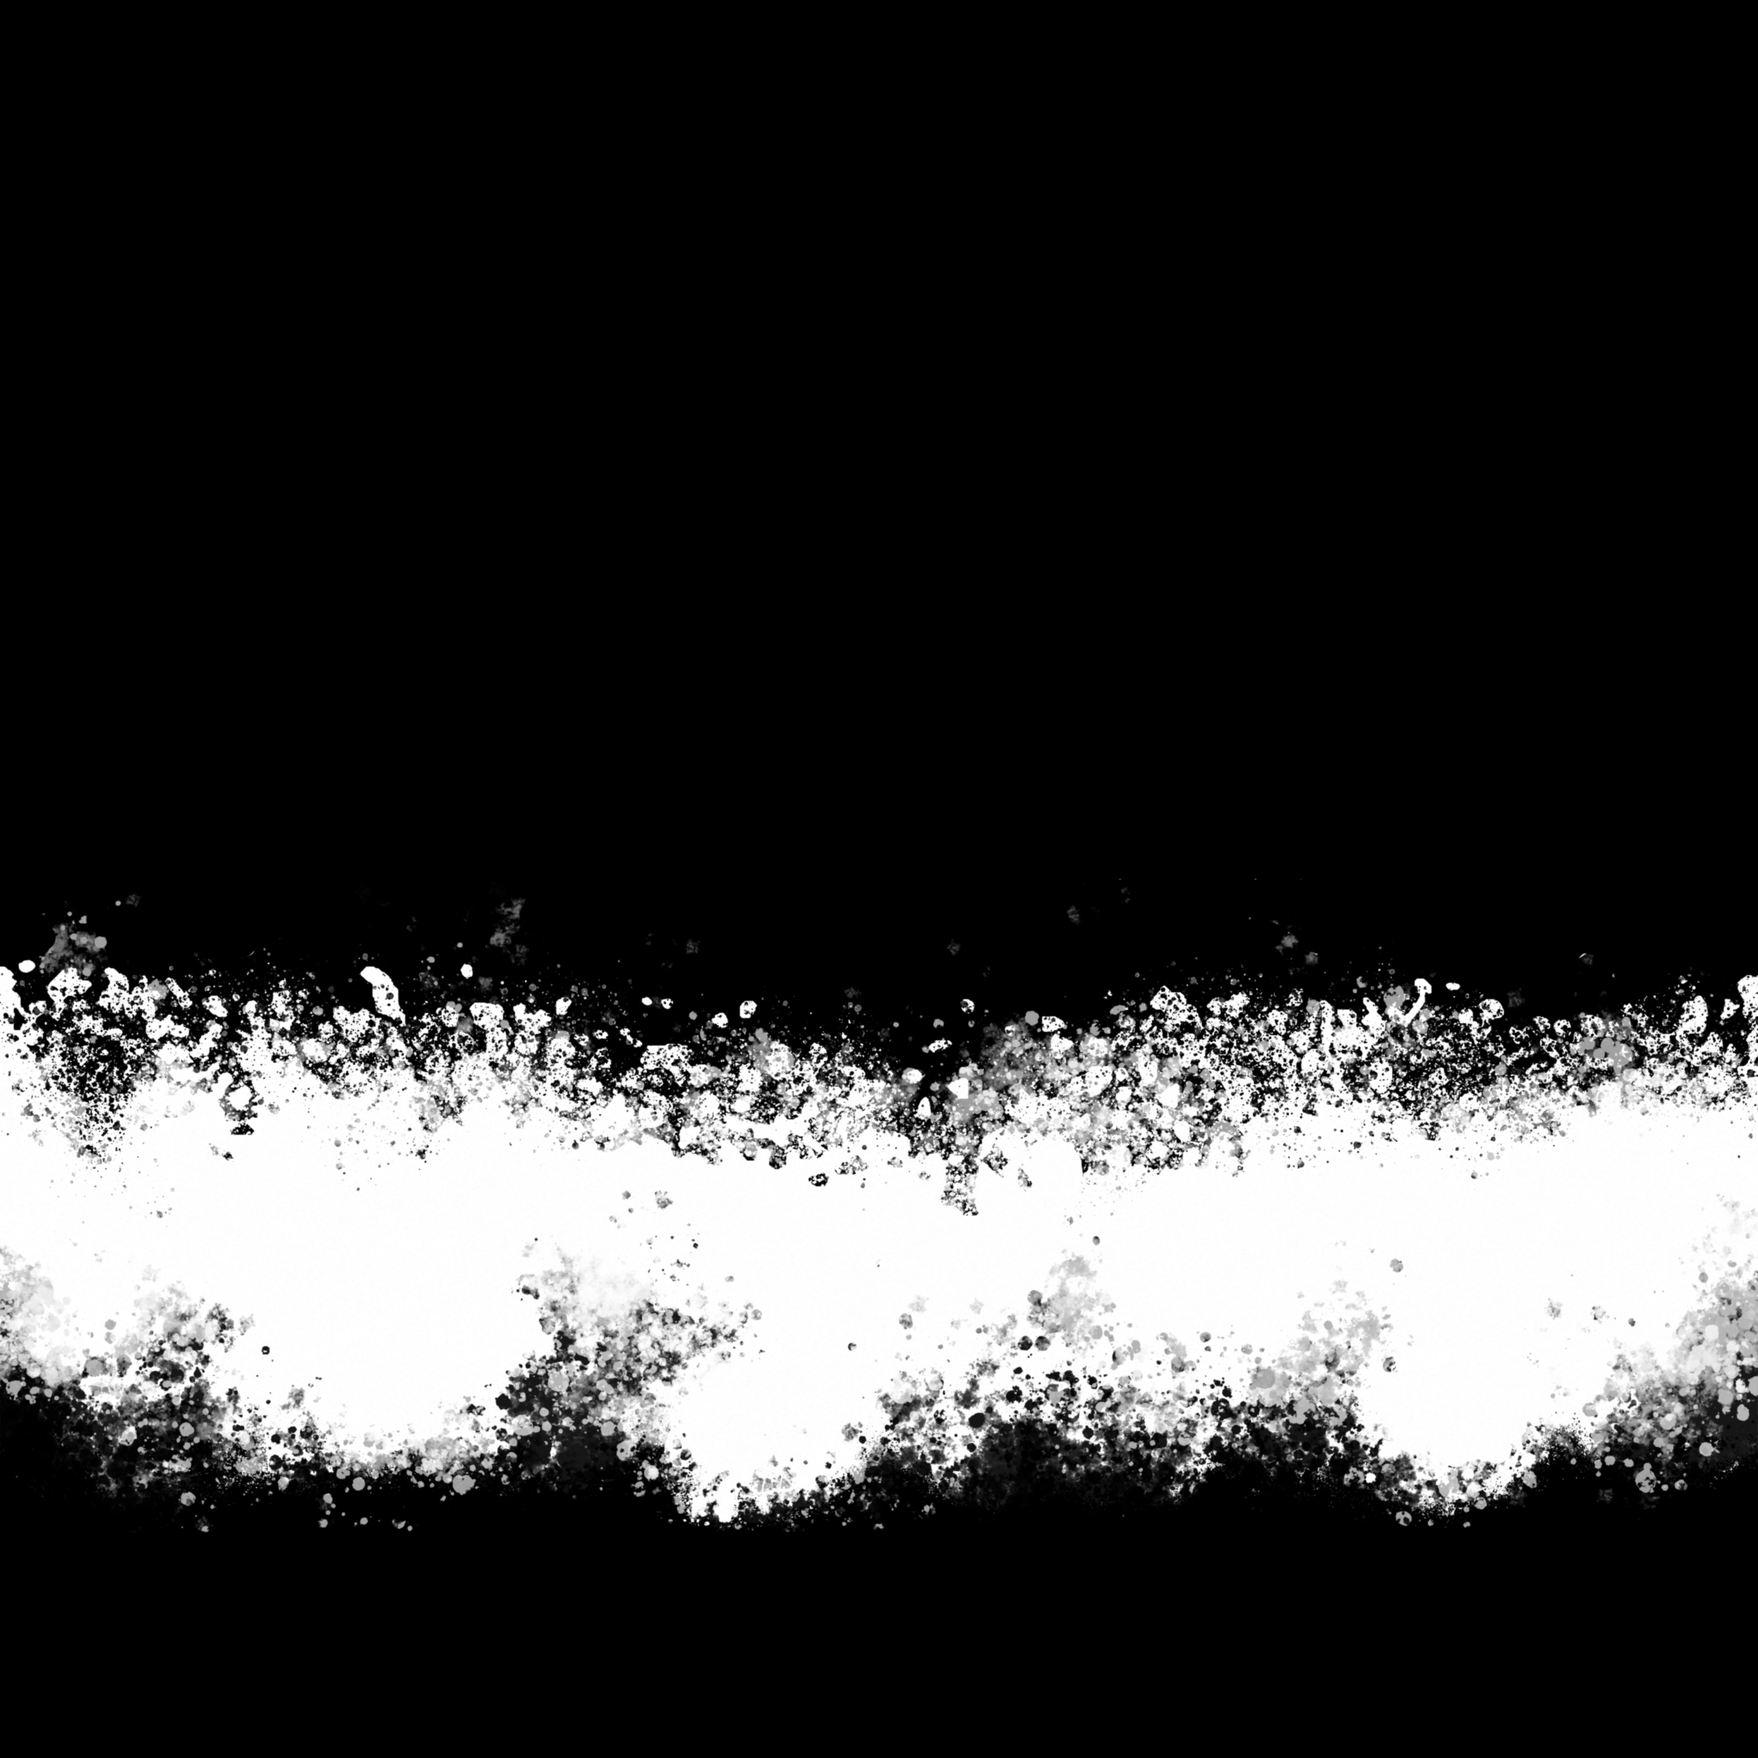
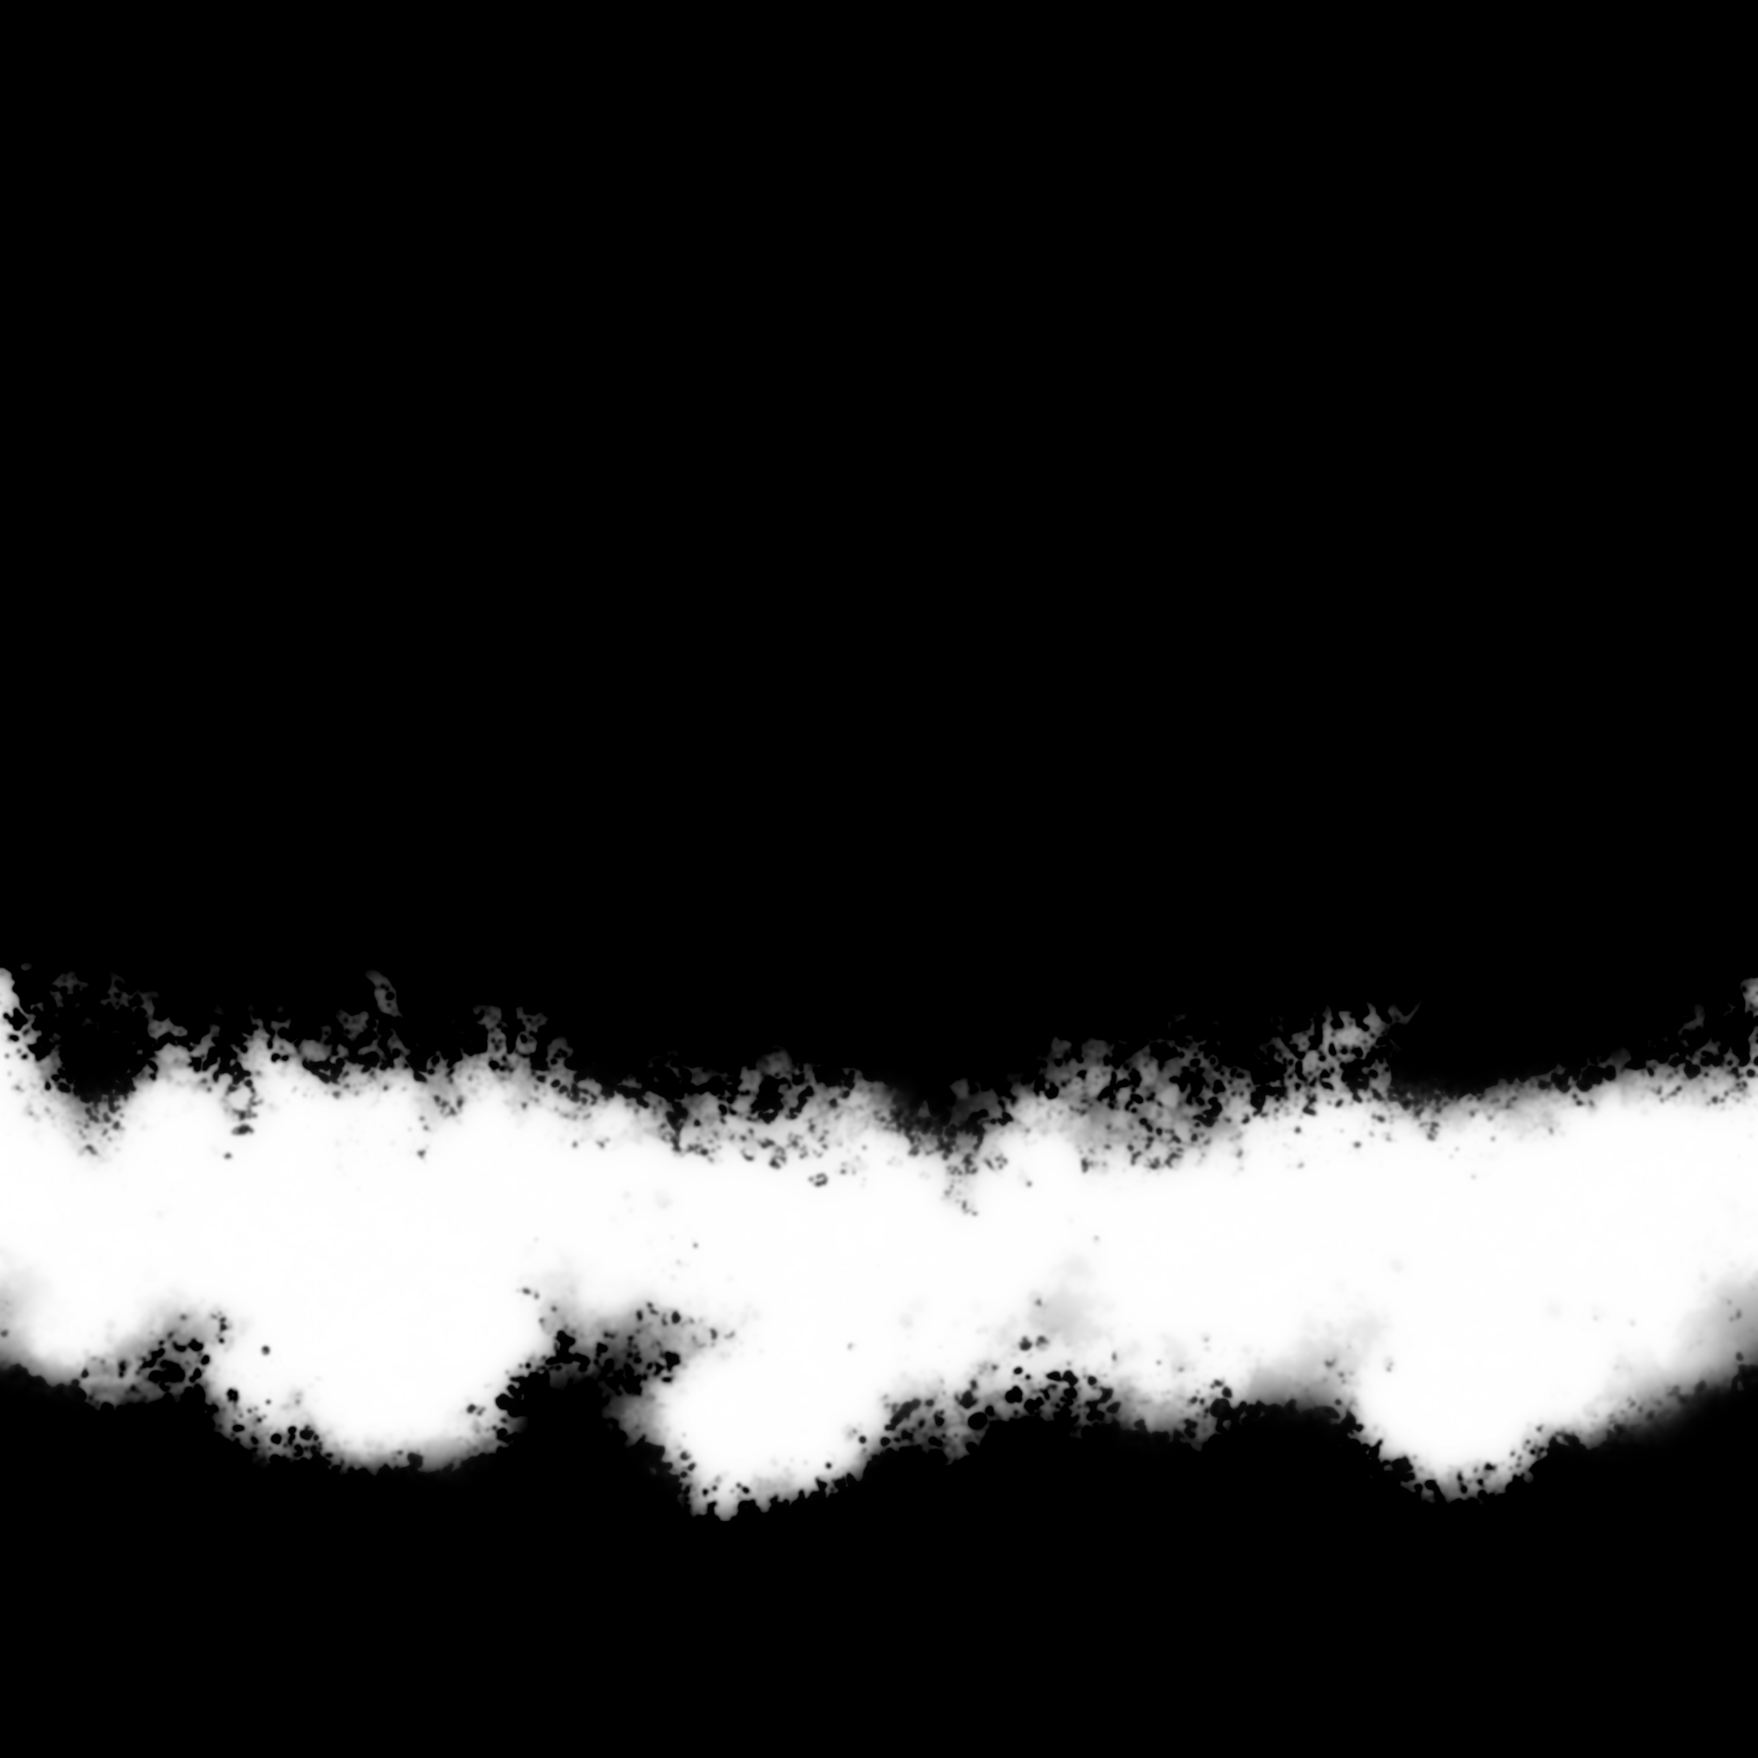
Add MountainSlab Mask Swap feature, fix orphaned texture-set blocks
MountainSlab Mask Swap repoints shapes using MountainSlab01/02 to their
"...Mask" sibling on records whose EditorID ends in "Snow"/"SN", when a
texture pack ships that sibling on disk. Opt-in, off by default.

Both this new feature and the existing DirtCliffsRoots skirt retexturing
clone a shape's shared BSShaderTextureSet into a private copy before
editing it, but never cleaned up the original block once nothing
referenced it anymore - leaving it orphaned in the saved mesh (visible in
NifSkope as a dimmed, disconnected block). Both now call
NiHeader.DeleteBlockByType("BSShaderTextureSet", true) before saving,
which only removes texture sets no shape still points to.

Changed region(s): [[0.0, 0.5, 1.0, 0.6875], [0.0, 0.7188, 1.0, 0.875]]

diff --git a/src/SnowFixer.Core/Pipeline/ExtractOrchestrator.cs b/src/SnowFixer.Core/Pipeline/ExtractOrchestrator.cs
@@ -68,6 +68,7 @@ public sealed class ExtractOrchestrator
     private int _vertexColorsNeutralized;
     private int _collisionMaterialsRemapped;
     private int _dirtCliffsSkirtShapesRetextured;
+    private int _mountainSlabMaskSwapped;
     private int _nonSnowLandscapeMeshesIncluded;
     private int _landscapesPatched;
 
@@ -234,6 +235,7 @@ public sealed class ExtractOrchestrator
             _vertexColorsNeutralized,
             _collisionMaterialsRemapped,
             _dirtCliffsSkirtShapesRetextured,
+            _mountainSlabMaskSwapped,
             _nonSnowLandscapeMeshesIncluded,
             _landscapesPatched,
             dirtCliffsSnowVariantGenerated,
@@ -263,6 +265,7 @@ public sealed class ExtractOrchestrator
             $"Meshes with vertex colors neutralized: {result.VertexColorsNeutralized}",
             $"Meshes with collision materials remapped to snow: {result.CollisionMaterialsRemapped}",
             $"DirtCliffs 'Skirt' shapes retextured to the snow variant: {result.DirtCliffsSkirtShapesRetextured}",
+            $"MountainSlab shapes swapped to their Mask variant: {result.MountainSlabMaskSwapped}",
             $"Non-snow landscape meshes also included for vertex color/collision fixups: {result.NonSnowLandscapeMeshesIncluded}",
             $"Landscape records with vertex colors cleared: {result.LandscapesPatched}",
             $"DirtCliffsRoots snow variant texture generated: {result.DirtCliffsSnowVariantGenerated}",
@@ -792,6 +795,12 @@ public sealed class ExtractOrchestrator
         nifFile.SetTextureSlot(skirtShape, DirtCliffsSnowVariantGenerator.OutputDiffuseRelativePath, 0);
         nifFile.SetTextureSlot(skirtShape, DirtCliffsSnowVariantGenerator.OutputNormalRelativePath, 1);
 
+        // Cloning Skirt's texture set above (when it was shared) leaves the original block behind -
+        // still present in the file but referenced by nothing, which NifSkope shows as a dimmed,
+        // disconnected block. orphanedOnly=true only removes texture sets no shape still points to, so
+        // this is a no-op whenever Skirt's texture set wasn't shared to begin with.
+        nifFile.GetHeader().DeleteBlockByType("BSShaderTextureSet", true);
+
         var saveOptions = new NifSaveOptions { optimize = false, sortBlocks = false };
         if (nifFile.Save(fullPath, saveOptions) != 0)
         {
@@ -800,6 +809,96 @@ public sealed class ExtractOrchestrator
         }
 
         _dirtCliffsSkirtShapesRetextured++;
+    }
+
+    // For records whose EditorID ends in "Snow"/"SN" - a naming convention some texture packs use
+    // for their own hand-authored snow variant of a record - the mesh may still embed the plain
+    // (non-snow) "mountainslab01"/"mountainslab02" diffuse rather than that pack's own "...Mask"
+    // sibling, which several rock/mountain texture packs ship specifically for use under a snow
+    // overlay. Every shape whose diffuse matches gets repointed, not just one named shape - unlike
+    // DirtCliffs' single "Skirt" shape, there's no established single-shape convention here. Only
+    // ever swaps to a sibling that actually exists on disk - never invents a path a texture pack
+    // might not ship.
+    private void SwapMountainSlabToMaskVariant(string duplicatedRelativePath, string label)
+    {
+        var fullPath = Path.Combine(_outputFolder, "meshes", duplicatedRelativePath);
+
+        using var nifFile = new NifFile();
+        if (nifFile.Load(fullPath) != 0)
+        {
+            _diagnostics.Add($"'{label}': failed to reload duplicated mesh for MountainSlab mask swap.");
+            return;
+        }
+
+        var swapped = false;
+        foreach (var shape in nifFile.GetShapes())
+        {
+            if (!shape.HasShaderProperty()
+                || nifFile.GetHeader().GetBlockById(shape.ShaderPropertyRef().index) is not BSLightingShaderProperty shaderProperty
+                || nifFile.GetHeader().GetBlockById(shaderProperty.TextureSetRef().index) is not BSShaderTextureSet textureSet)
+            {
+                continue;
+            }
+
+            var items = textureSet.textures.items();
+            if (items.Count == 0)
+            {
+                continue;
+            }
+
+            var diffuse = items[0].get();
+            if (string.IsNullOrEmpty(diffuse)
+                || !(diffuse.EndsWith("mountainslab01.dds", StringComparison.OrdinalIgnoreCase)
+                    || diffuse.EndsWith("mountainslab02.dds", StringComparison.OrdinalIgnoreCase)))
+            {
+                continue;
+            }
+
+            var maskPath = diffuse[..^".dds".Length] + "Mask.dds";
+            if (!_fileProbe.Exists(maskPath))
+            {
+                _diagnostics.Add($"'{label}': shape '{shape.name.get()}' uses '{diffuse}' but no '{maskPath}' sibling exists - left as-is.");
+                continue;
+            }
+
+            // The texture set may be shared with sibling shapes (same pitfall as DirtCliffs' own
+            // Skirt shape above) - give this shape its own private copy before touching any slot.
+            var privateItems = new vectorNiString();
+            foreach (var item in items)
+            {
+                privateItems.Add(new NiString(item.get()));
+            }
+
+            var privateTextureSet = new BSShaderTextureSet();
+            var privateVector = new NiStringVector();
+            privateVector.SetItems(privateItems);
+            privateTextureSet.textures = privateVector;
+
+            var privateTextureSetIndex = nifFile.GetHeader().AddBlock(privateTextureSet);
+            GC.SuppressFinalize(privateTextureSet);
+            shaderProperty.SetTextureSetRef(privateTextureSetIndex);
+
+            nifFile.SetTextureSlot(shape, maskPath, 0);
+            swapped = true;
+        }
+
+        if (!swapped)
+        {
+            return;
+        }
+
+        // Same cleanup as RetextureDirtCliffsSkirt above - cloning a shared texture set per matching
+        // shape leaves each original block behind once nothing references it anymore.
+        nifFile.GetHeader().DeleteBlockByType("BSShaderTextureSet", true);
+
+        var saveOptions = new NifSaveOptions { optimize = false, sortBlocks = false };
+        if (nifFile.Save(fullPath, saveOptions) != 0)
+        {
+            _diagnostics.Add($"'{label}': failed to save the mesh after MountainSlab mask swap.");
+            return;
+        }
+
+        _mountainSlabMaskSwapped++;
     }
 
     private void ProcessType<TGetter>(
@@ -907,6 +1006,11 @@ public sealed class ExtractOrchestrator
             if (_settings.GenerateDirtCliffsSnowVariant && modelPath.Contains("dirtcliffs", StringComparison.OrdinalIgnoreCase))
             {
                 RetextureDirtCliffsSkirt(duplicatedPath, editorId ?? modelPath);
+            }
+            if (_settings.SwapMountainSlabMask && editorId is not null
+                && (editorId.EndsWith("Snow", StringComparison.OrdinalIgnoreCase) || editorId.EndsWith("SN", StringComparison.OrdinalIgnoreCase)))
+            {
+                SwapMountainSlabToMaskVariant(duplicatedPath, editorId);
             }
 
             _matched++;

diff --git a/native/SnowFixer/src/GUI/LauncherWindow.cpp b/native/SnowFixer/src/GUI/LauncherWindow.cpp
@@ -269,6 +269,25 @@ LauncherWindow::LauncherWindow(const SFParams& initParams, filesystem::path exeP
     collisionColumnSizer->Add(m_collisionMaterialModeNoneRadio, 0, wxTOP, BORDER_SIZE);
     collisionColumnSizer->Add(m_collisionMaterialModeSnowOnlyRadio, 0, wxTOP, BORDER_SIZE);
 
+    // MountainSlab Mask swap - one specific, hardcoded texture pair ("mountainslab01"/
+    // "mountainslab02" swapped for their own "...Mask" sibling), not a general texture-generation
+    // engine. Off by default. Placed in this column purely to balance the two columns' height -
+    // no thematic link to collision materials beyond both being small opt-in toggles.
+    collisionColumnSizer->Add(makeSectionLabel(generalPanel, SFTr("launcher.mountainSlabMask.label", "MountainSlab Mask Swap")), 0,
+        wxTOP, BORDER_SIZE * 2);
+
+    m_swapMountainSlabMaskCheckbox = new wxCheckBox(generalPanel, wxID_ANY,
+        SFTr("launcher.mountainSlabMask.checkbox", "Swap MountainSlab01/02 for their Mask variant on snow-named meshes"));
+    m_swapMountainSlabMaskCheckbox->SetValue(initParams.swapMountainSlabMask);
+    collisionColumnSizer->Add(m_swapMountainSlabMaskCheckbox, 0, wxTOP, BORDER_SIZE);
+
+    auto* mountainSlabMaskHelpText = new wxStaticText(generalPanel, wxID_ANY,
+        SFTr("launcher.mountainSlabMask.help",
+            "For a record whose EditorID ends in \"Snow\"/\"SN\", repoints any shape using "
+            "MountainSlab01/02 to its \"...Mask\" sibling, when one exists on disk."));
+    mountainSlabMaskHelpText->Wrap(HELP_WRAP_PAIRED);
+    collisionColumnSizer->Add(mountainSlabMaskHelpText, 0, wxTOP, BORDER_SIZE);
+
     // DirtCliffsRoots snow variant - one specific, hardcoded texture pair ("landscape\dirtcliffs\
     // dirtcliffsroots01" composited with "landscape\snow01"), not a general texture-generation
     // engine. Off by default.
@@ -500,6 +519,7 @@ void LauncherWindow::getParams(SFParams& outParams) const
     }
 
     outParams.generateDirtCliffsSnowVariant = m_generateDirtCliffsSnowVariantCheckbox->GetValue();
+    outParams.swapMountainSlabMask = m_swapMountainSlabMaskCheckbox->GetValue();
 }
 
 void LauncherWindow::onLanguageChanged([[maybe_unused]] wxCommandEvent& event)

diff --git a/src/SnowFixer.Core/Configuration/ExtractSettings.cs b/src/SnowFixer.Core/Configuration/ExtractSettings.cs
@@ -46,6 +46,14 @@ public sealed class ExtractSettings
     /// default.</summary>
     public bool GenerateDirtCliffsSnowVariant { get; set; }
 
+    /// <summary>For a record whose EditorID ends in "Snow" or "SN" (case-insensitive), swaps any
+    /// shape's diffuse texture ending in "mountainslab01.dds"/"mountainslab02.dds" (case-insensitive)
+    /// for its "...Mask.dds" sibling in the same folder, when that sibling actually exists on disk -
+    /// see <see cref="Pipeline.ExtractOrchestrator.SwapMountainSlabToMaskVariant"/>. One specific,
+    /// hardcoded texture pair rather than a general engine - opt-in, off by default, same reasoning
+    /// as <see cref="GenerateDirtCliffsSnowVariant"/>.</summary>
+    public bool SwapMountainSlabMask { get; set; }
+
     /// <summary>None (scan the raw Data folder directly - nothing extra to configure) or
     /// ModOrganizer2 (requires <see cref="Mo2InstancePath"/> to reconstruct its virtual file
     /// system, layering every enabled mod on top of the vanilla Data folder).</summary>

diff --git a/native/SnowFixer/src/SFConfig.cpp b/native/SnowFixer/src/SFConfig.cpp
@@ -93,6 +93,9 @@ auto SFConfig::loadFrom(const filesystem::path& configFilePath) -> SFParams
         if (configJ.contains("GenerateDirtCliffsSnowVariant")) {
             params.generateDirtCliffsSnowVariant = configJ["GenerateDirtCliffsSnowVariant"].get<bool>();
         }
+        if (configJ.contains("SwapMountainSlabMask")) {
+            params.swapMountainSlabMask = configJ["SwapMountainSlabMask"].get<bool>();
+        }
     } catch (const exception& e) {
         Logger::warn("Failed to parse settings file, using defaults: {}", e.what());
         return SFParams {};
@@ -127,6 +130,7 @@ auto SFConfig::toJson(const SFParams& params) -> nlohmann::json
     }
 
     configJ["GenerateDirtCliffsSnowVariant"] = params.generateDirtCliffsSnowVariant;
+    configJ["SwapMountainSlabMask"] = params.swapMountainSlabMask;
 
     return configJ;
 }

diff --git a/native/SnowFixer/include/SFConfig.hpp b/native/SnowFixer/include/SFConfig.hpp
@@ -82,6 +82,11 @@ struct SFParams {
     /// @brief Generates a snow variant of Vanaheimr's own "landscape\dirtcliffs\dirtcliffsroots01"
     /// texture - one specific, hardcoded texture pair rather than a general engine. Off by default.
     bool generateDirtCliffsSnowVariant = false;
+
+    /// @brief For a record whose EditorID ends in "Snow"/"SN", swaps a "mountainslab01"/
+    /// "mountainslab02" diffuse for its "...Mask" sibling when one exists on disk - one specific,
+    /// hardcoded texture pair rather than a general engine. Off by default.
+    bool swapMountainSlabMask = false;
 };
 
 /**

diff --git a/native/SnowFixer/include/GUI/LauncherWindow.hpp b/native/SnowFixer/include/GUI/LauncherWindow.hpp
@@ -51,6 +51,7 @@ private:
     PGModifiableListCtrl* m_meshBlacklistCtrl = nullptr;
     PGModifiableListCtrl* m_editorIdKeywordsCtrl = nullptr;
     wxCheckBox* m_generateDirtCliffsSnowVariantCheckbox = nullptr;
+    wxCheckBox* m_swapMountainSlabMaskCheckbox = nullptr;
     wxButton* m_okButton = nullptr;
 
     void onLanguageChanged(wxCommandEvent&);

diff --git a/src/SnowFixer.Core/Pipeline/ExtractResult.cs b/src/SnowFixer.Core/Pipeline/ExtractResult.cs
@@ -11,6 +11,7 @@ public sealed record ExtractResult(
     int VertexColorsNeutralized,
     int CollisionMaterialsRemapped,
     int DirtCliffsSkirtShapesRetextured,
+    int MountainSlabMaskSwapped,
     int NonSnowLandscapeMeshesIncluded,
     int LandscapesPatched,
     bool DirtCliffsSnowVariantGenerated,

diff --git a/README.md b/README.md
@@ -1,8 +1,8 @@
 # Snow Fixer
 
-**Work in progress.** A standalone tool for Skyrim Special Edition that scans your load order for
-every snow-related mesh and record, duplicates and patches the winning ones, and writes a single
-plugin pointing at the fixes — without ever touching an original asset.
+A standalone tool for Skyrim Special Edition that scans your load order for every snow-related mesh
+and record, duplicates and patches the winning ones, and writes a single plugin pointing at the
+fixes — without ever touching an original asset.
 
 ## What it does
 
@@ -22,6 +22,11 @@ Point Snow Fixer at your load order (via Mod Organizer 2, or a plain Data folder
   own snow texture, aware of the Vanilla / Complex Material / True PBR conventions (correct
   compression format + a matching PBRNifPatcher json when needed), and apply it to exactly the
   right part ("Skirt") of the generated DirtCliffs meshes.
+- **MountainSlab Mask Swap** — for a record whose EditorID ends in "Snow"/"SN", repoint any shape
+  using the MountainSlab01/02 texture to its "...Mask" sibling when a texture pack ships one, so
+  rock/mountain meshes read correctly under a snow overlay.
+- **Mesh blacklist / EditorID keyword blacklist** — exclude specific meshes (wildcards supported)
+  or any record whose EditorID contains a given keyword, to rule out false-positive matches.
 - **Error handling** — malformed asset paths are reported and skipped per record where possible;
   fatal run errors include detailed exception information in the progress window.
 - Run fully offline against your files — it never touches the running game.
